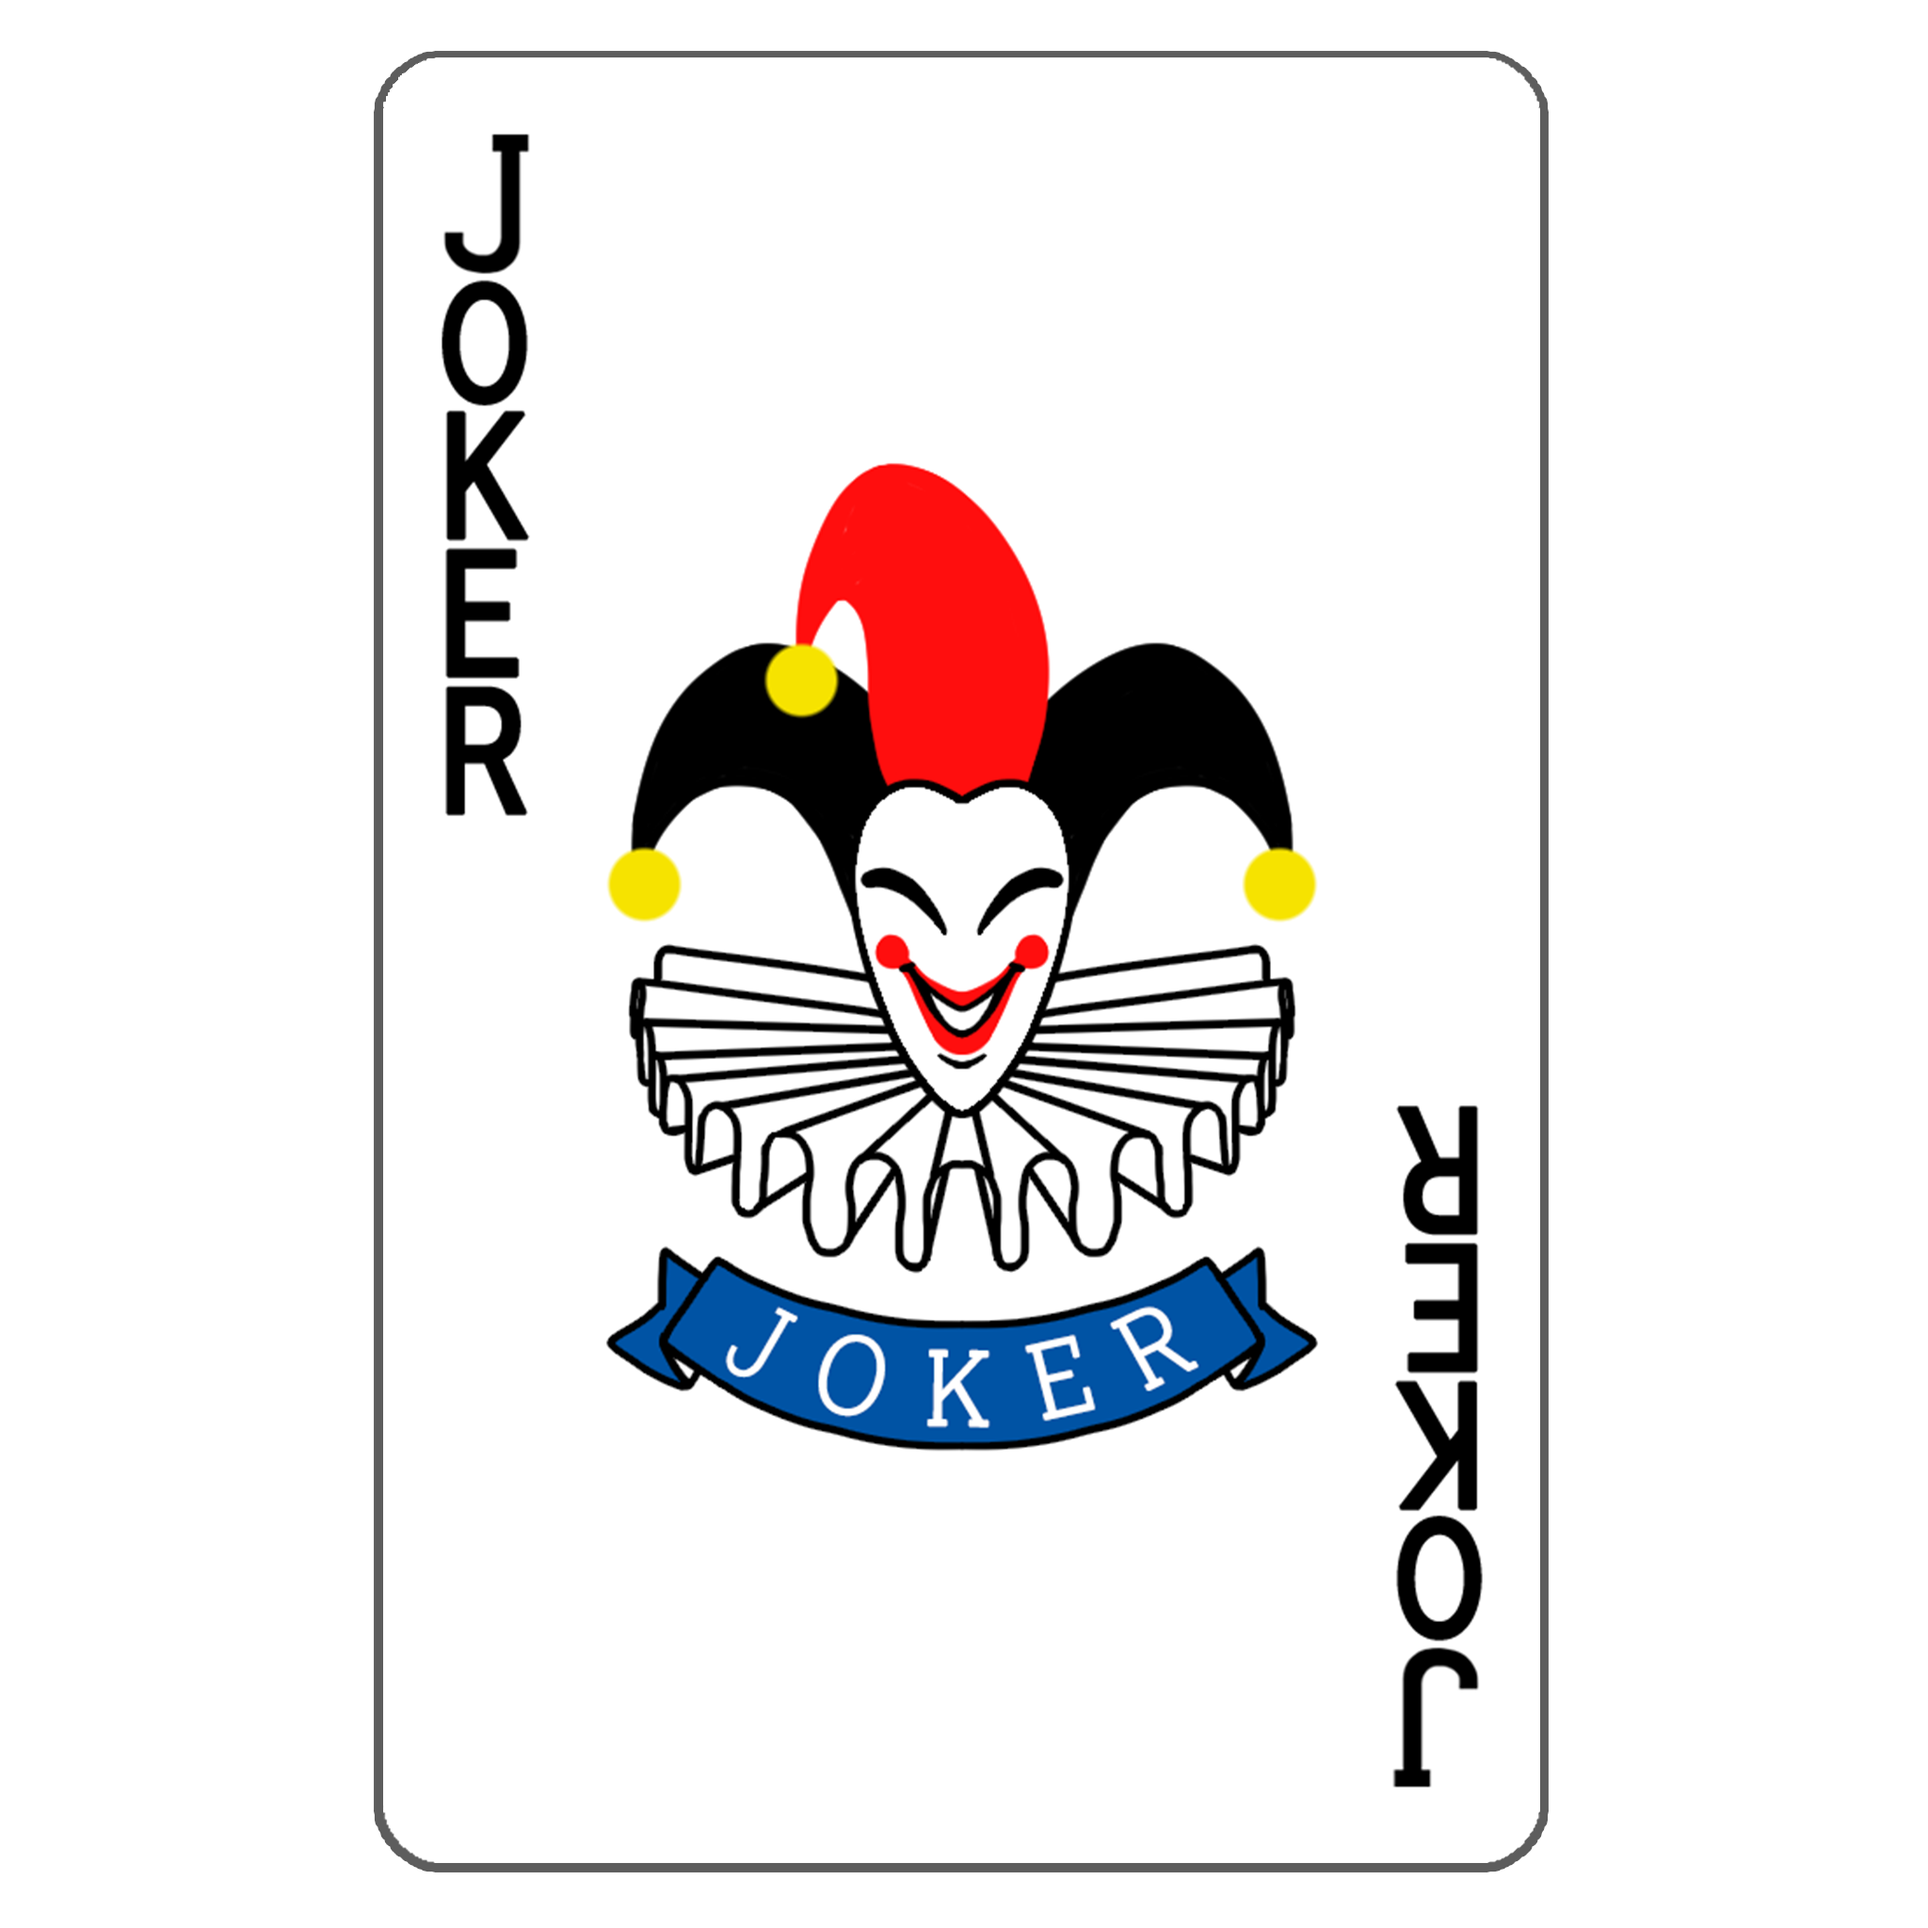
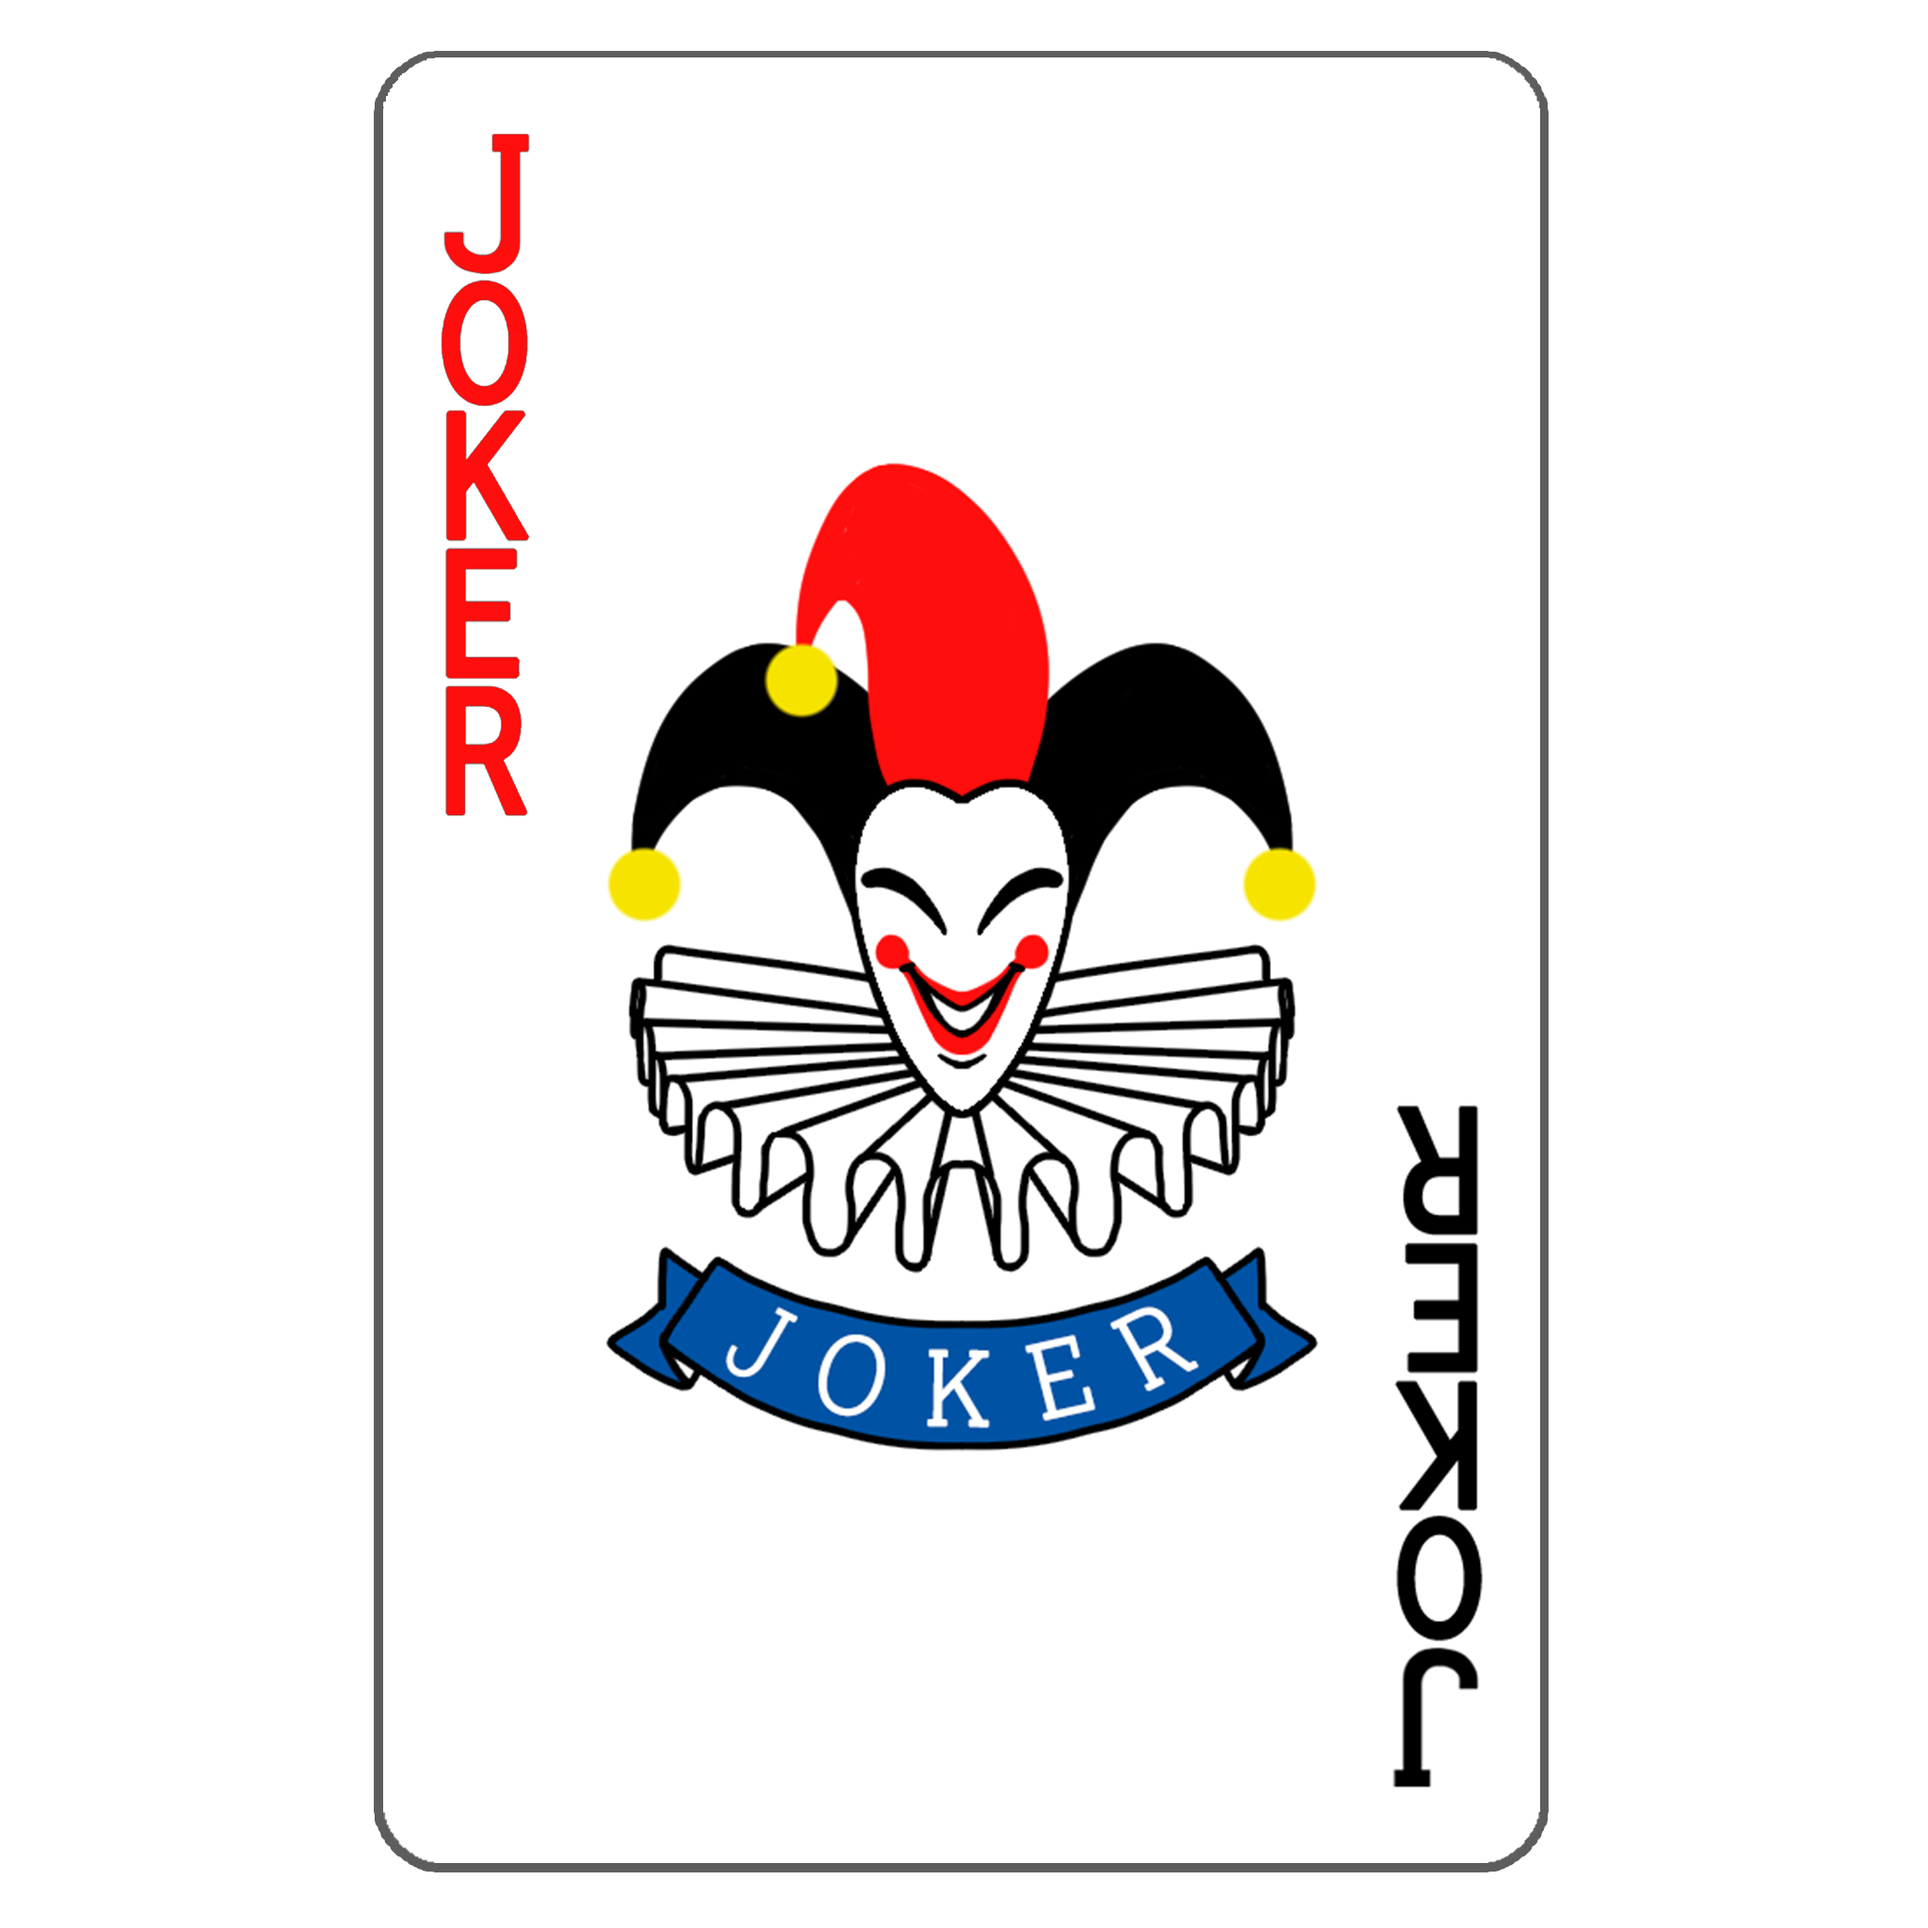
use red text to indicate colored joker; dispense cards counterclockwise

Changed region(s): [[0.2188, 0.0625, 0.2812, 0.4375]]

diff --git a/src/server/game.ts b/src/server/game.ts
@@ -123,6 +123,10 @@ export default class Game {
         }
 
         while (this.deckCardsWithOrigins.length > remainder) {
+            if (playerIndex < 0) {
+                playerIndex = this.numPlayers + playerIndex;
+            }
+            
             const player = this.players[playerIndex % this.numPlayers];
             if (player) {
                 const release = await Game.mutex.acquire();
@@ -144,7 +148,7 @@ export default class Game {
                 await Lib.delay(1000);
             }
 
-            ++playerIndex;
+            --playerIndex;
         }
     }
 
